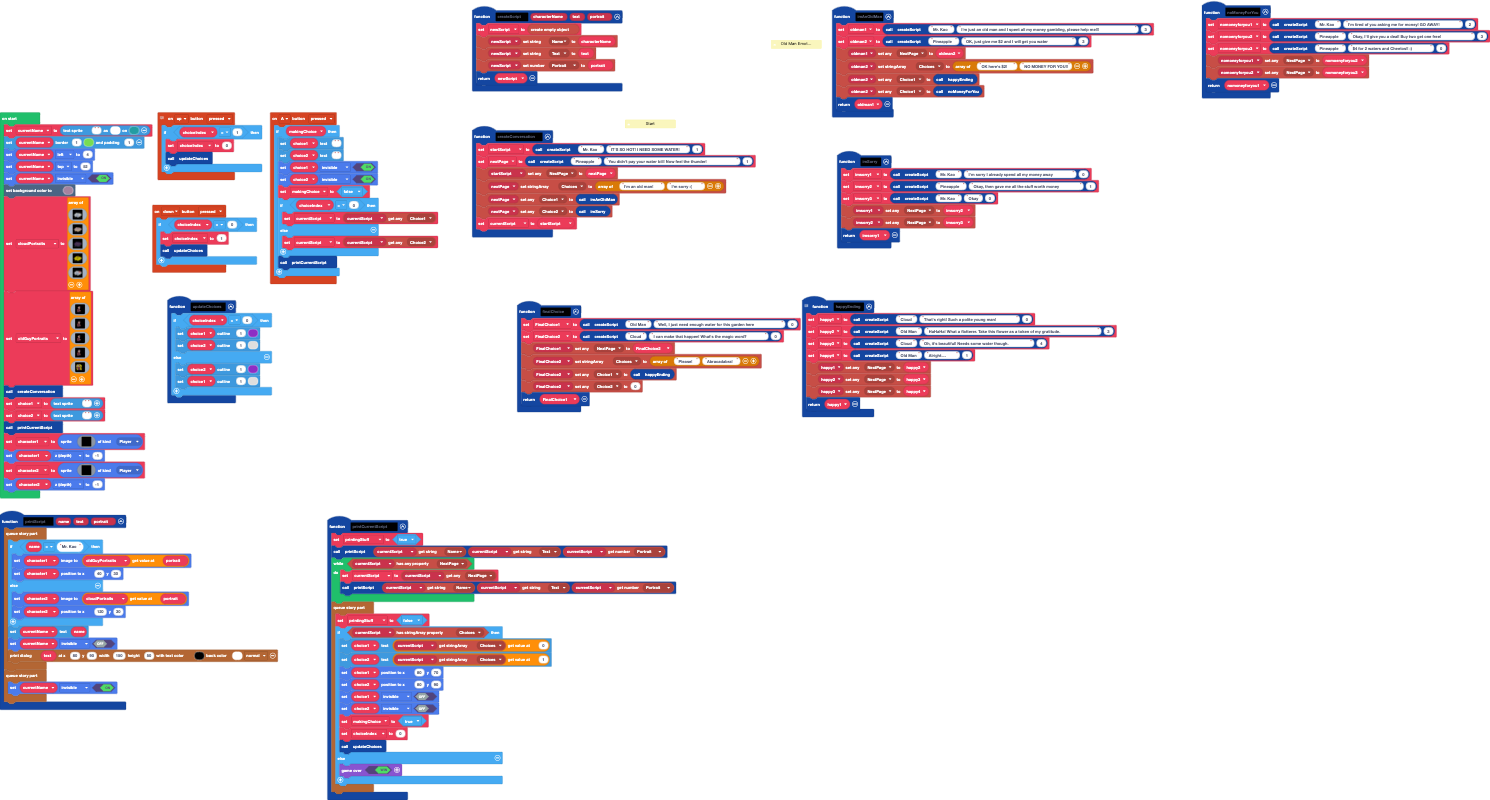
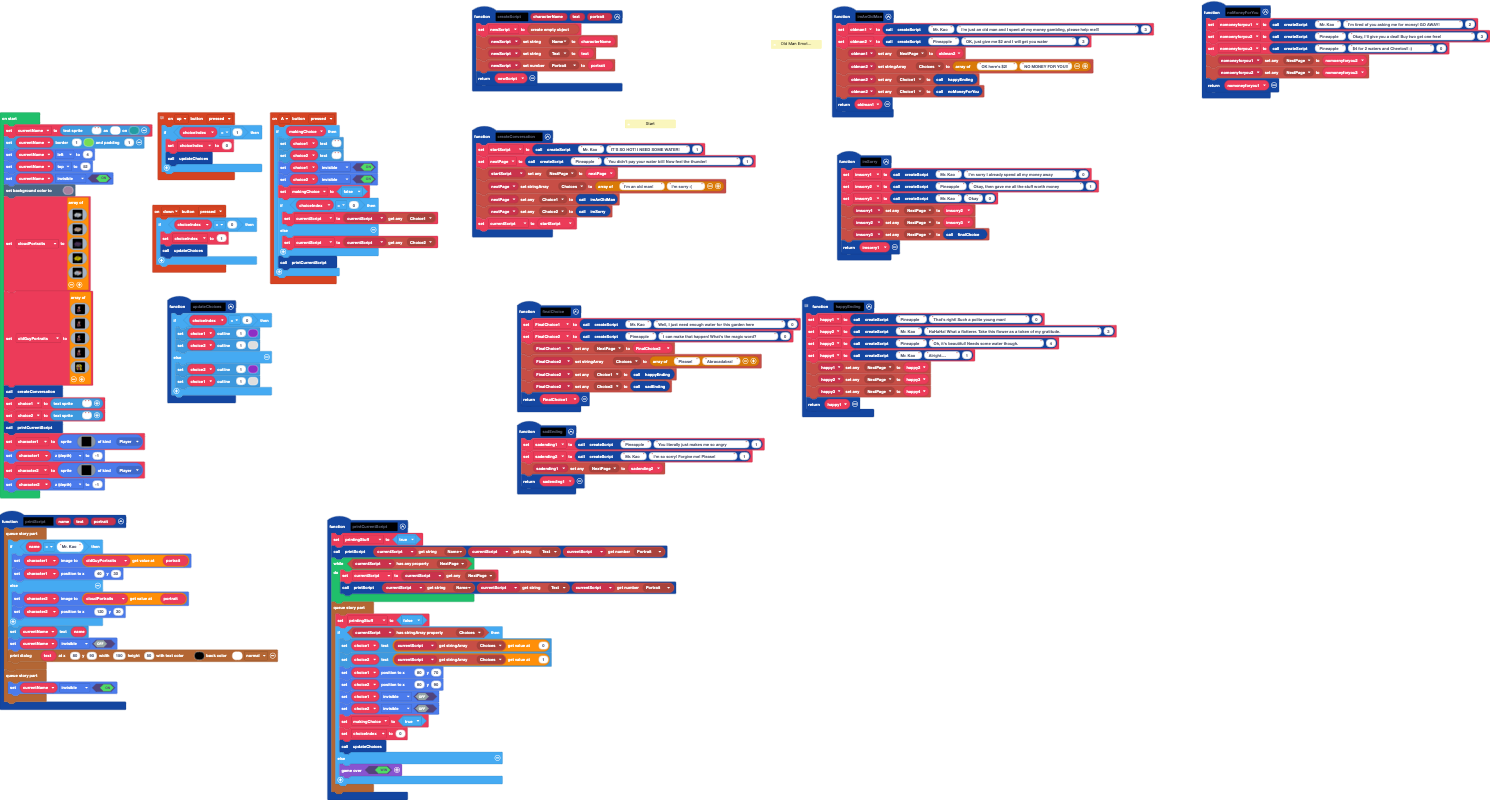
finished sad ending

diff --git a/main.ts b/main.ts
@@ -45,10 +45,10 @@ namespace AnyProp {
 // 
 // 3 = happy
 function happyEnding () {
-    happy1 = createScript("Cloud", "That's right! Such a polite young man!", 0)
-    happy2 = createScript("Old Man", "HaHaHa! What a flatterer. Take this flower as a token of my gratitude.", 3)
-    happy3 = createScript("Cloud", "Oh, it's beautiful! Needs some water though.", 4)
-    happy4 = createScript("Old Man", "Alright....", 1)
+    happy1 = createScript("Pineapple", "That's right! Such a polite young man!", 0)
+    happy2 = createScript("Mr. Kao", "HaHaHa! What a flatterer. Take this flower as a token of my gratitude.", 3)
+    happy3 = createScript("Pineapple", "Oh, it's beautiful! Needs some water though.", 4)
+    happy4 = createScript("Mr. Kao", "Alright....", 1)
     blockObject.setAnyProperty(happy1, AnyProp.NextPage, happy2)
     blockObject.setAnyProperty(happy2, AnyProp.NextPage, happy3)
     blockObject.setAnyProperty(happy3, AnyProp.NextPage, happy4)
@@ -60,6 +60,7 @@ function imSorry () {
     imsorry3 = createScript("Mr. Kao", "Okay", 0)
     blockObject.setAnyProperty(imsorry1, AnyProp.NextPage, imsorry2)
     blockObject.setAnyProperty(imsorry2, AnyProp.NextPage, imsorry3)
+    blockObject.setAnyProperty(imsorry3, AnyProp.NextPage, finalChoice())
     return imsorry1
 }
 // microsoft/arcade-block-objects
@@ -124,12 +125,12 @@ function noMoneyForYou () {
     return nomoneyforyou1
 }
 function finalChoice () {
-    FinalChoice1 = createScript("Old Man", "Well, I just need enough water for this garden here", 0)
-    FinalChoice2 = createScript("Cloud", "I can make that happen! What's the magic word?", 0)
+    FinalChoice1 = createScript("Mr. Kao", "Well, I just need enough water for this garden here", 0)
+    FinalChoice2 = createScript("Pineapple", "I can make that happen! What's the magic word?", 0)
     blockObject.setAnyProperty(FinalChoice1, AnyProp.NextPage, FinalChoice2)
     blockObject.setStringArrayProperty(FinalChoice2, StrArrayProp.Choices, ["Please!", "Abracadabra!"])
     blockObject.setAnyProperty(FinalChoice2, AnyProp.Choice1, happyEnding())
-    blockObject.setAnyProperty(FinalChoice2, AnyProp.Choice2, 0)
+    blockObject.setAnyProperty(FinalChoice2, AnyProp.Choice2, sadEnding())
     return FinalChoice1
 }
 function updateChoices () {
@@ -187,6 +188,14 @@ function createScript (characterName: string, text: string, portrait: number) {
     blockObject.setNumberProperty(newScript, NumProp.Portrait, portrait)
     return newScript
 }
+function sadEnding () {
+    sadending1 = createScript("Pineapple", "You literally just makes me so angry", 1)
+    sadending2 = createScript("Mr. Kao", "I'm so sorry! Forgive me! Please!", 1)
+    blockObject.setAnyProperty(sadending1, AnyProp.NextPage, sadending2)
+    return sadending1
+}
+let sadending2: blockObject.BlockObject = null
+let sadending1: blockObject.BlockObject = null
 let newScript: blockObject.BlockObject = null
 let oldman2: blockObject.BlockObject = null
 let oldman1: blockObject.BlockObject = null
